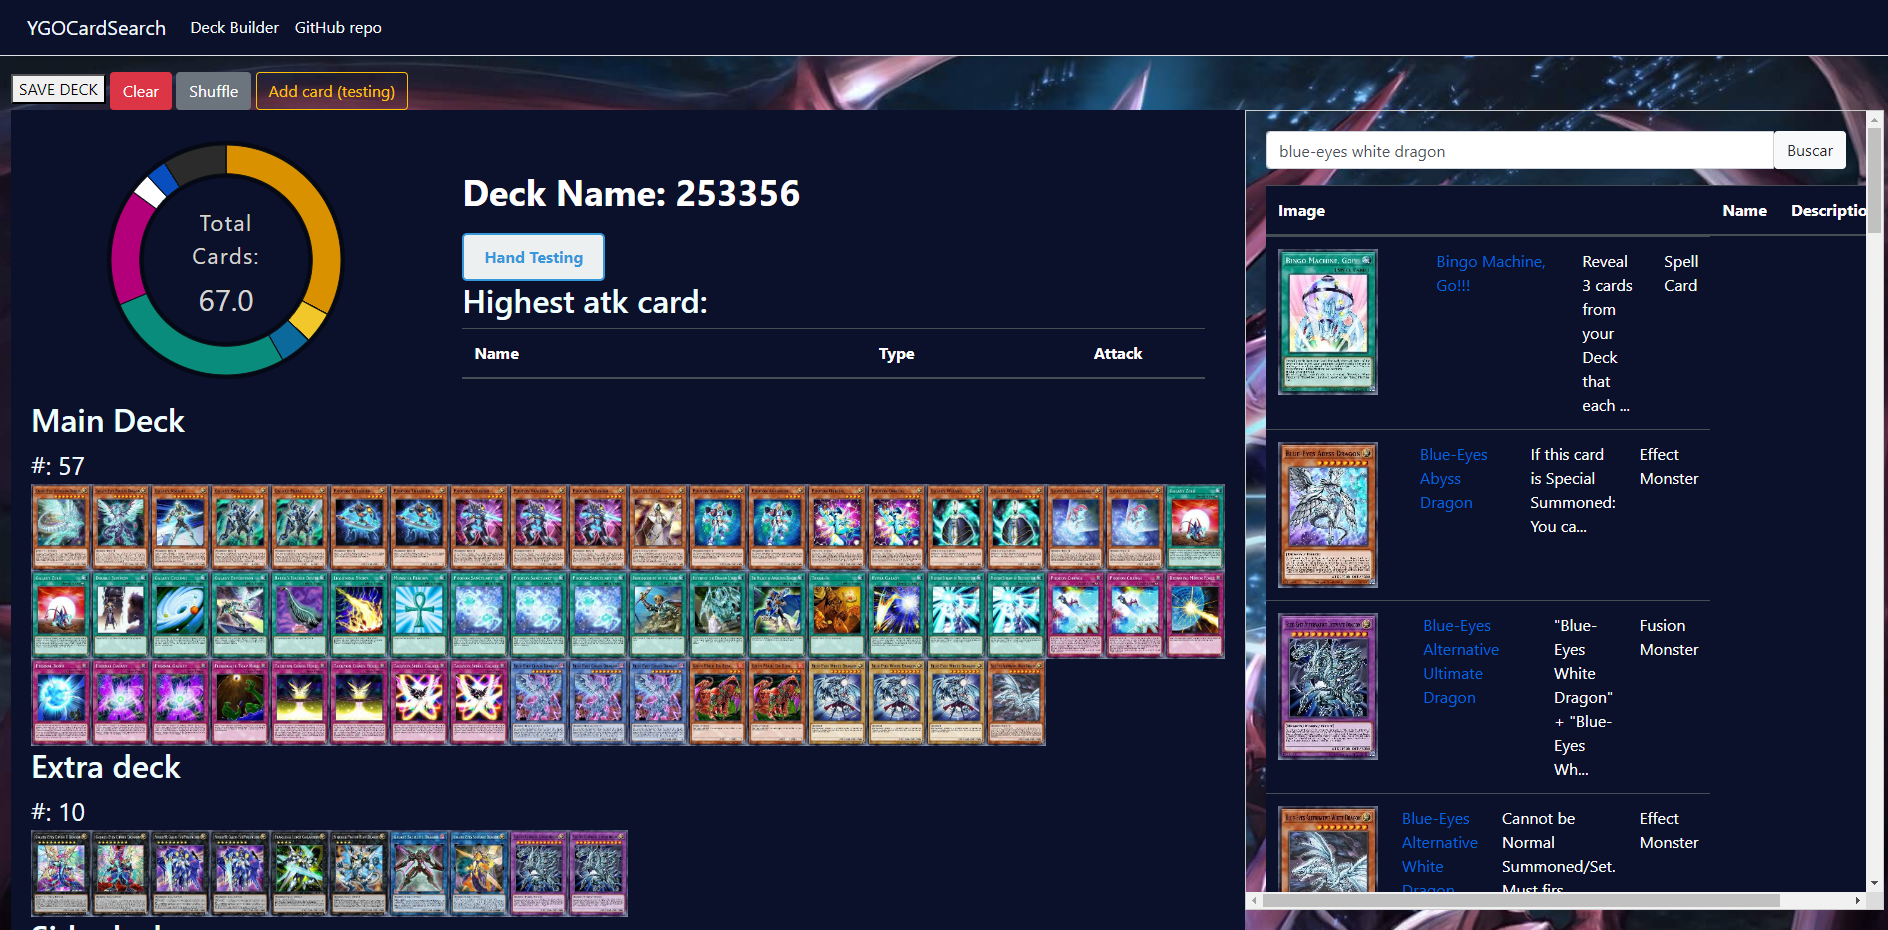
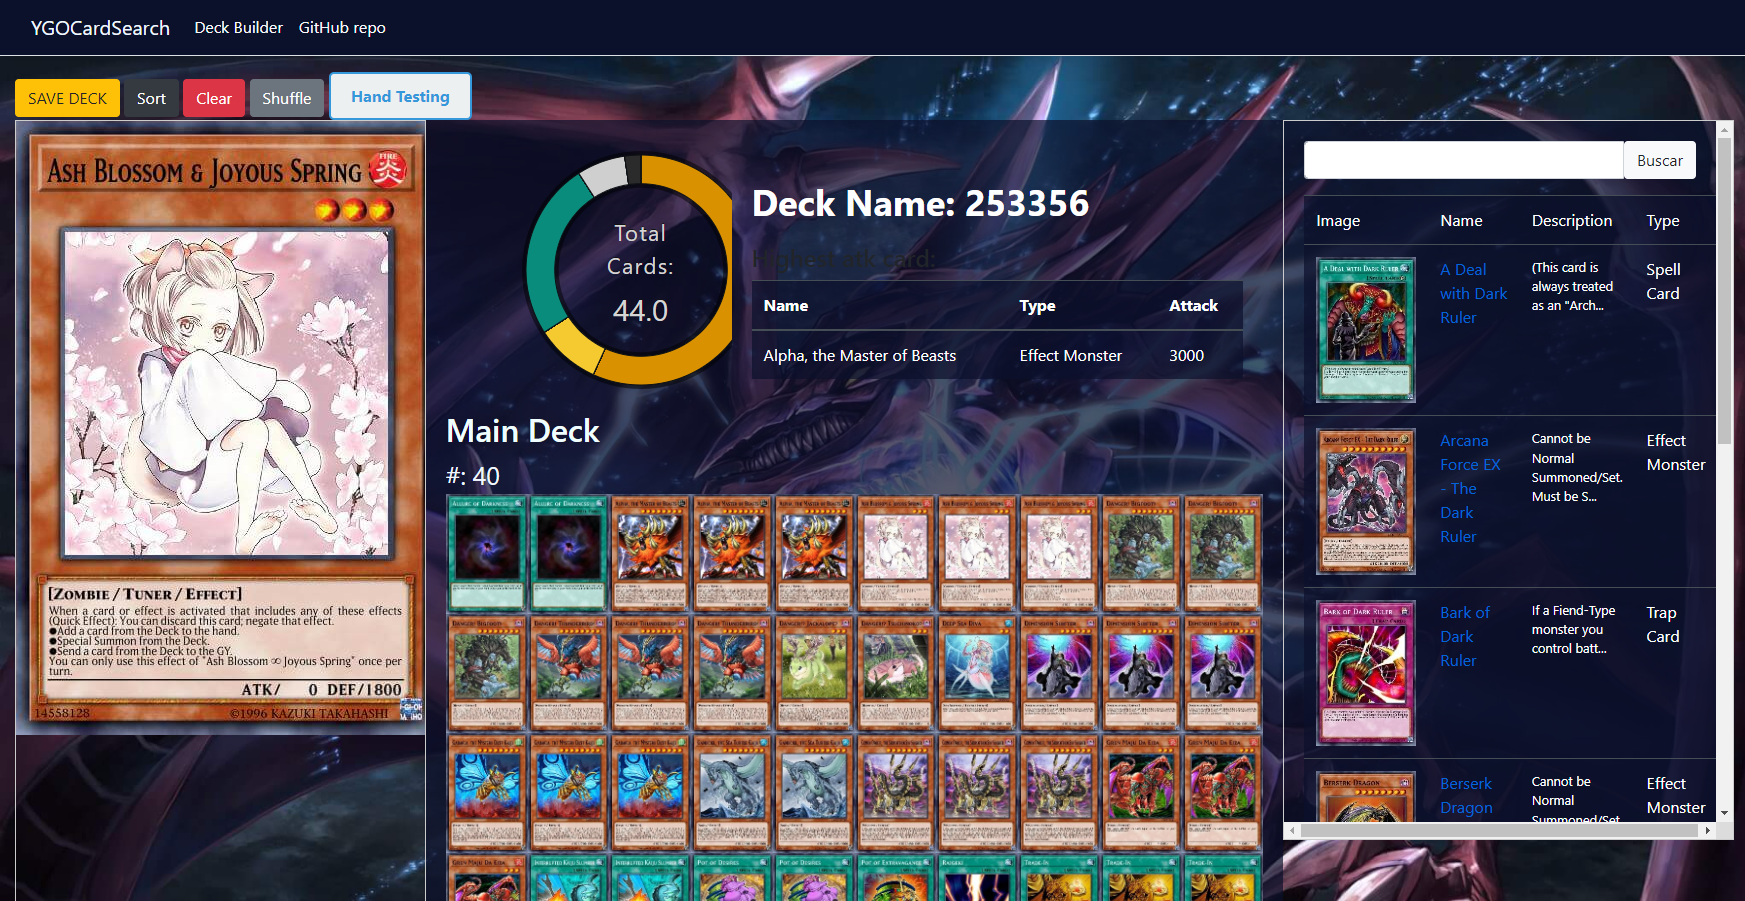
Modified grammar, errors

diff --git a/_posts/2023-08-28-Construyendo un Creador de Decks de Yugioh.md b/_posts/2023-08-28-Construyendo un Creador de Decks de Yugioh.md
@@ -1,39 +1,46 @@
 ---
 title: Bitacora Dev Construyendo un Creador de Mazos de Yu-Gi-Oh con ASP.NET Core
 date: 2023-08-28 11:07:00 -500
-categories: [proyectos personales,software, development] 
+categories: [proyectos personales,software, development, yugioh] 
 tags: [.net7,c#,unity,yugioh,asp.net core, async] # Tag names should ALWAYS be lowercase
 author: <author_id>
 comments: true
 ---
 ![image](/assets/img/deckbuilder1.png) 
-# Bitacora Dev - Construyendo un Creador de Mazos de Yu-Gi-Oh con ASP.NET Core (*****update*****)
-¡Bienvenido a esta bitácora de desarrollo! 
-En este artículo, compartiré los avances y funcionalidades del Creador de Mazos de Yu-Gi-Oh utilizando .NET 6 y ASP.NET Core.
+Bitácora de desarrollo: **Yugioh, visualizador de cartas y constructor de decks**.
+En este artículo, compartiré los avances y funcionalidades de esta sencilla aplicación creada con ASP.NET Core, C#, SQL y Javascript. 
 
 ## El Proyecto en Desarrollo
-El objetivo es crear una herramienta que facilite la creación y gestión de mazos de cartas de Yu-Gi-Oh. Hasta ahora, he establecido la base para este Creador de Mazos, centrándome en tres funcionalidades clave:
+El objetivo es crear una herramienta que facilite la búsqueda de cartas, creación y gestión de decks de Yu-Gi-Oh. Hasta ahora, he establecido la base para esta solución, centrándome en tres funcionalidades clave:
 
 ## Búsqueda y Visualización de Cartas
-El proyecto nos permite buscar y visualizar cartas de Yu-Gi-Oh desde una base de datos. Hemos creado una página donde puedes introducir el nombre de una carta y obtener una lista de resultados coincidentes. Esto facilita la búsqueda de las cartas que deseas agregar a tu mazo.
+El proyecto nos permite buscar y visualizar cartas de Yu-Gi-Oh desde la API ygoprodeck y también desde una base de datos local creada con SQLServer. 
 
-Para esto nos conectamos a la API de ygoProDeck y consultamos las cartas requeridas. Lo que hice fue crear un proveedor de datos que implementa una interfaz llamada ```ICardsProvider```. De esta forma implementé el método para buscar las cartas.
+Lo que hice fue crear un proveedor de datos que implementa una interfaz llamada ```ICardsProvider```. De esta forma implementé el método para buscar las cartas, algo así: 
 ```cs
-async Task<ICollection<Card>> ICardsProvider.GetSearchAsync(string search)
+// Pedimos texto como parámetro, normalmente el nombre relacionado a la carta
+async Task<ICollection<Card>> ICardsProvider.GetSearchAsync(string search) 
         {
+            // Añadimos la búsqueda al query tal y como lo pide ygoprodeck.com en sus docs
             string url = "https://db.ygoprodeck.com/api/v7/cardinfo.php?fname=" + search;
+            // Creamos nuestro cliente usando HttpClient. Namespace: System.Net.Http
             var ygoClient = new HttpClient() { BaseAddress = new Uri(url) };
 
             try
             {
+                // Importante, usamos métodos asíncronos para las llamadas a la API
                 var request = await ygoClient.GetAsync(url);
+                // Validamos si el request fue existoso o no
                 if (request.IsSuccessStatusCode)
                 {
+                    // Leemos el contenido como string
                     var content = await request.Content.ReadAsStringAsync();
+                    // Deserializamos usando JsonSerializer de System.Text.Json
                     var model = JsonSerializer.Deserialize<Card>(content, new JsonSerializerOptions());
+                    // Solo para debug: 
                     Console.WriteLine("Cards found: " + model.Data.Count);
-                    var data = model.Data;
 
+                    var data = model.Data;
                     return data;
                 }
                 else
@@ -45,36 +52,50 @@ async Task<ICollection<Card>> ICardsProvider.GetSearchAsync(string search)
             {
                 throw new Exception(ex.Message);
             }
-
         }
 ```
 
-## Gestión de Mazos - DeckBuilder
-Una vez que tienes una lista de cartas disponibles, hemos implementado una funcionalidad para cargar un mazo. Puedes seleccionar cartas desde la lista y agregarlas a tu mazo en construcción. La página de "DeckBuilder" muestra tu mazo actual, dividiendo las cartas en el mazo principal, mazo extra y mazo lateral.
+## El Deck Builder
 
-Para esta pagina y debido a las imagenes usadas, YgoProDeck API recomienda no hacer llamadas para las imagenes que ellos tienen en su servidor, sino descargarlas localmente y llamarlas de este modo. Así es tal cual funciona este YGO Deck Builder. Las cartas manejadas en este sitio son consultadas directamente de nuestra clase YGOContext, que representa nuestra base de datos ya creada con todas las cartas (copiar todas fue una lata, pero se logró).
+ La página de Deck Builder muestra el deck seleccionado previamente (esto es hardcode por el momento), dividiendo las cartas en el Main Deck, Extra Deck y Side Deck. 
+
+Para esta pagina y debido a las imagenes usadas, YgoProDeck API recomienda no hacer llamadas para las imagenes que ellos tienen en su servidor, sino descargarlas localmente y llamarlas de este modo. Así es tal y como funciona esta página Deck Builder. Las cartas manejadas en este sitio son consultadas directamente de nuestra clase YGOContext, que representa nuestra base de datos local. 
+
+Copiar todas las cartas, sets, precios, imágenes y demás fue una lata, pero se logró. Esto lo explico más a fondo en la [documentación](https://github.com/diego-devs/YuGiOhDeckBuilder) del repositorio en GitHub.
 
 ### División del Contenido en DeckBuilder
-Una de las características es la disposición dividida en la página "DeckBuilder". Aquí es donde puedes ver tu mazo actual en un lado de la pantalla y las cartas disponibles para agregar en el otro. Esta división del contenido permite una administración fluida del mazo.
+Aquí tenemos la pantalla dividida en tres, en donde de lado derecho se muestra una búsqueda de cartas, en medio todas las cartas del Deck más información adicional y de lado izquierdo la carta seleccionada en visualización amplia y detalles. 
 
 ```html
-<!-- Ejemplo de la división del contenido en DeckBuilder -->
 <div class="split-section">
+    <div class="detail-section">
+        <!-- Imagen de la carta en grande con detalles -->
+    </div>
     <div class="deck-section">
-        <!-- ... código para mostrar el mazo actual ... -->
+        <!-- El Deck actual dividido en Main, Extra y Side -->
     </div>
     <div class="cards-section">
-        <!-- ... código para mostrar las cartas disponibles ... -->
+        <!-- La búsqueda de cartas hecha por el usuario, -->
+        <!-- desde aquí se arrastran las cartas para agregarse al deck -->
     </div>
 </div>
-
 ```
 ## Hand Testing
-Work in progress...
+Work in progress... Aquí deberíamos de poder tener una visualización interactiva del deck para poder sacar cartas. Ya se tiene algo muy primitivo en el código para esto. 
 
-# Próximos Pasos
-Aunque he logrado avances en este Creador de Mazos de Yu-Gi-Oh, todavía hay mucho por hacer. El próximo paso será implementar funcionalidades para hacer que las cartas de la lista de búsqueda sean seleccionables y agregables al mazo cargado. También estoy planeando incorporar interactividad adicional para mejorar la experiencia del usuario.
+# Próximos Pasos, Notas del desarrollador
+
+Todavía hay mucho por hacer ya que la solución tiene muchos problemas tanto de frontend como de backend. No tener un framework para el front ha hecho las cosas más enrredadas con Javascript, pero definitivamente he aprendido muchísimo sobre el lenguaje. 
+
+ La base de datos tiene que ser actualizada ya que cada ciertos meses nuevas cartas son lanzadas y para eso usaré una app de consola que lo haga de forma automática. Ya se tiene código creado para esto, solo hace falta incroporarlo para este fin. 
+ 
+ Incorporar interactividad adicional para mejorar la experiencia del usuario es imperativo.
+
+ Añadir el Hand Testing y el Deck Manager (para crear decks y administrarlos) es algo en lo que estoy trabajando actualmente.  
 
 Asegúrate de seguir visitando mi blog para obtener más actualizaciones y detalles sobre el proyecto.
 
 Puedes checar el repositorio del proyecto [desde aquí.](https://github.com/diego-devs/YuGiOhTCG)
+Eres bienvenido a contribuir al proyecto si así lo deseas. Acá está mi contacto. 
+
+¡Saludos, duelistas!

diff --git a/_posts/2024-01-07-Buenas practicas en c#.md b/_posts/2024-01-07-Buenas practicas en c#.md
@@ -7,7 +7,7 @@ author: <author_id>
 comments: true
 ---
 
-# La Importancia de las Buenas Prácticas en C# para Mantener un Codigo Legible y Mantenible a Largo Plazo
+## Para Mantener un Codigo Legible y Mantenible a Largo Plazo
 
 En el vasto mundo de la programación, adoptar buenas prácticas no solo es esencial para el desarrollo de software **eficiente** y **sostenible**, sino que también tiene un impacto significativo en el crecimiento personal de los programadores. Exploremos la importancia de aplicar buenas prácticas en este genial lenguaje.
 

diff --git a/_posts/2024-01-08-Creando una Base de Datos con Code-First en .NET 7 y SQL Server.md b/_posts/2024-01-08-Creando una Base de Datos con Code-First en .NET 7 y SQL Server.md
@@ -7,7 +7,6 @@ author: <author_id>
 comments: true
 ---
 
-# Creando una Base de Datos con Code-First en .NET 7 y SQL Server 
 ## Una Guía Práctica Inicial de Entity Framework Core
 
 El desarrollo de aplicaciones en **.NET** ha evolucionado considerablemente a lo largo de los años, y con la llegada de .NET 8, la metodología **Code-First** se ha vuelto aún más poderosa y fácil de usar gracias a **Entity Framework Core**, el *ORM* por excelencia del universo Microsoft. 
